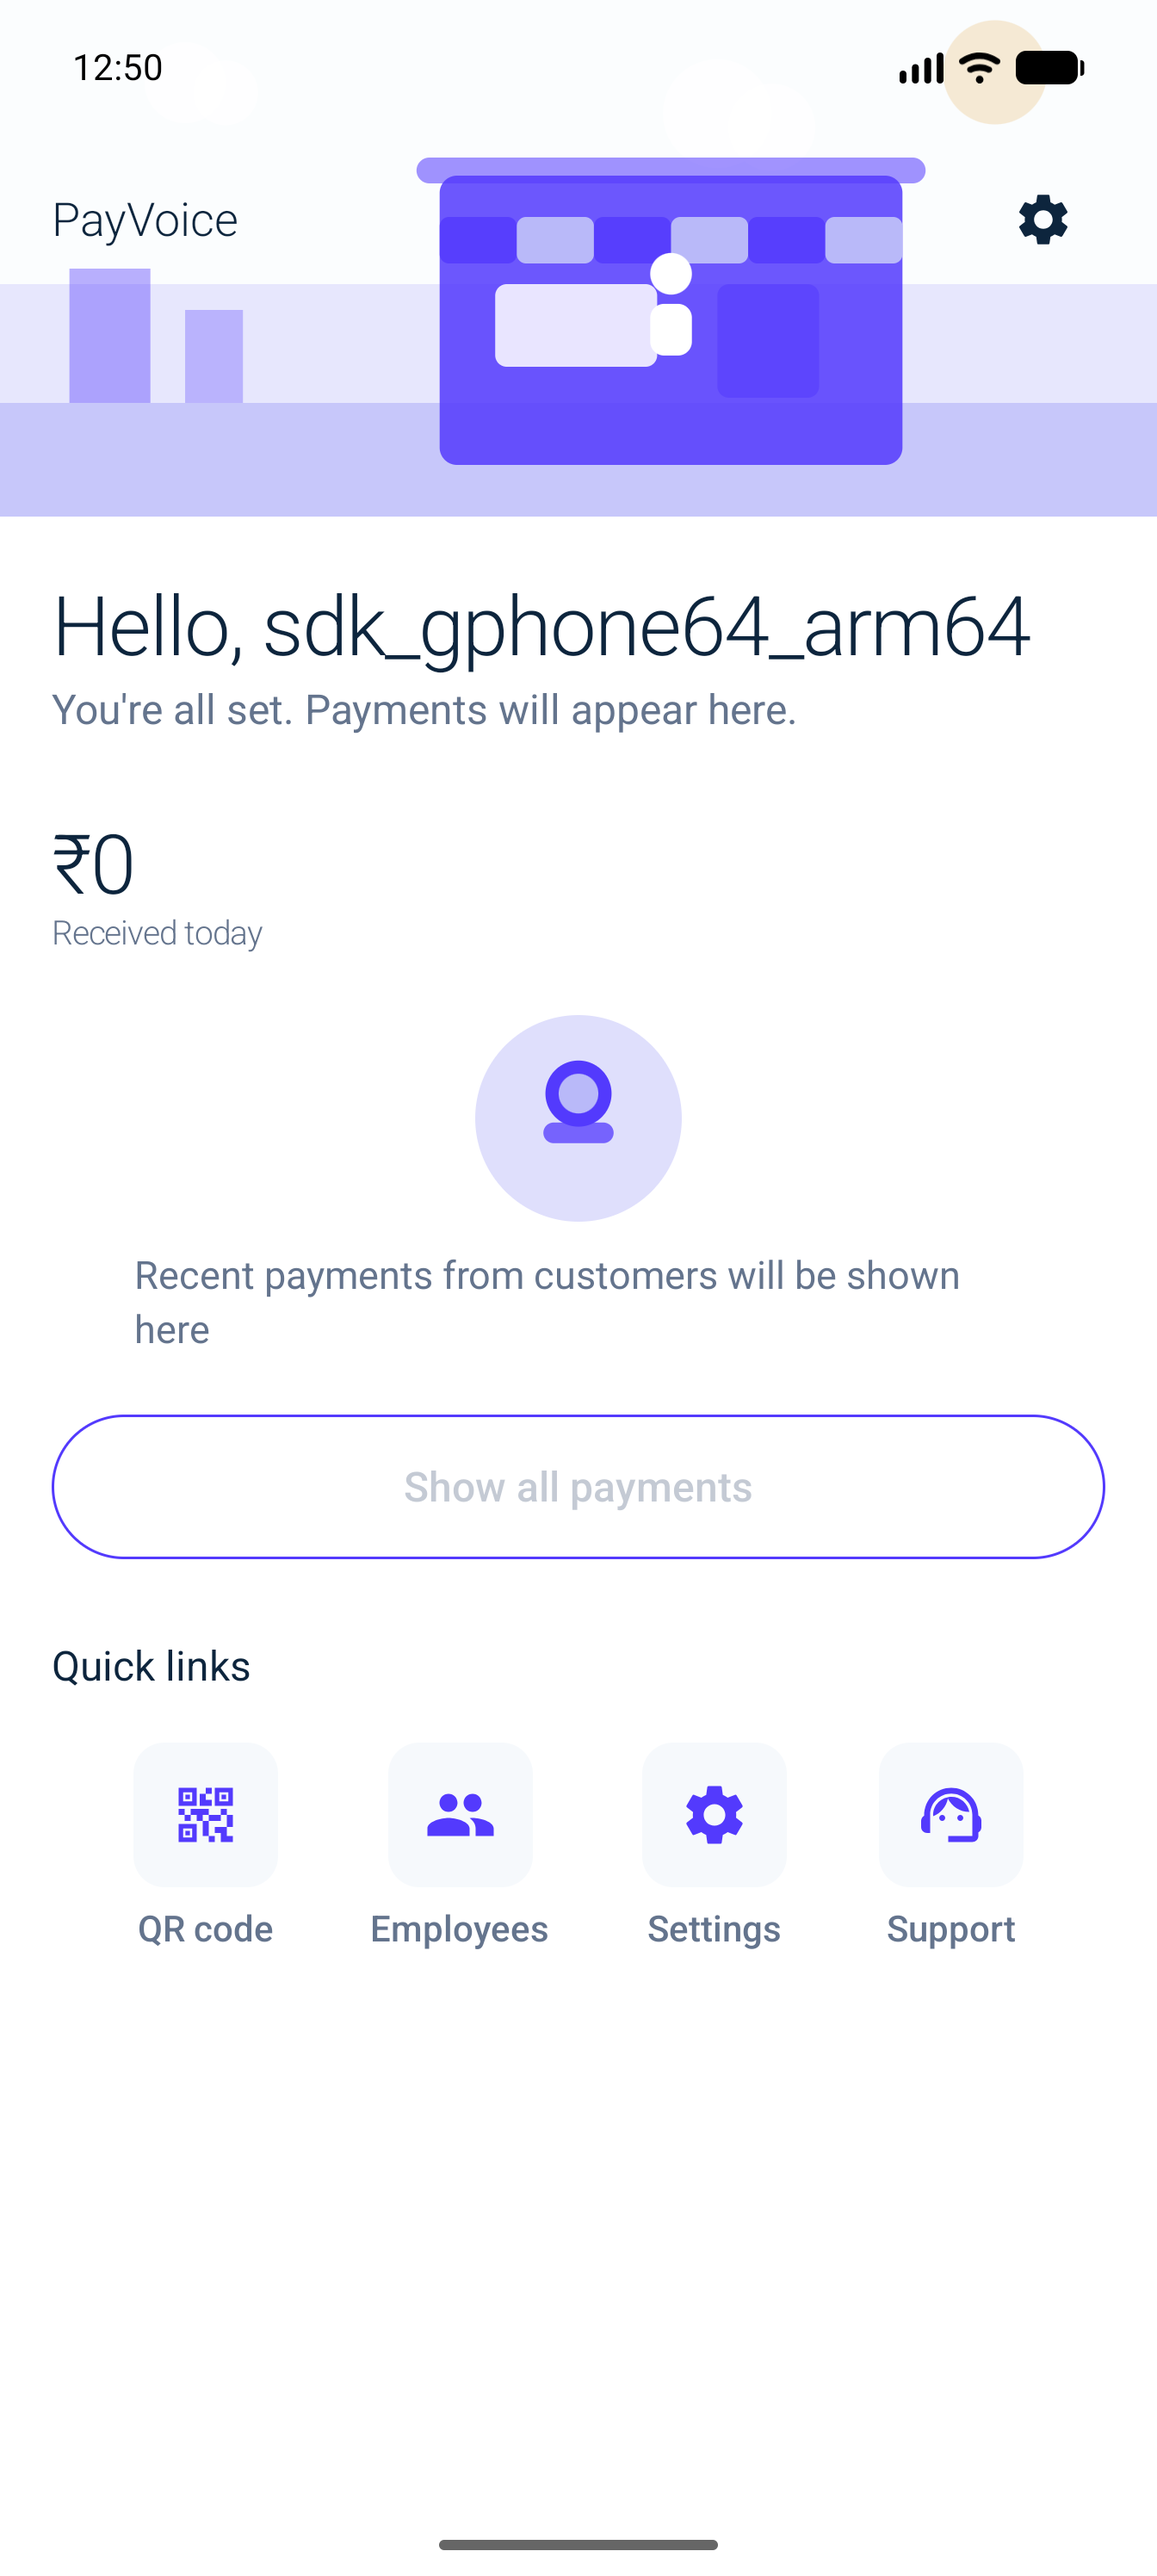
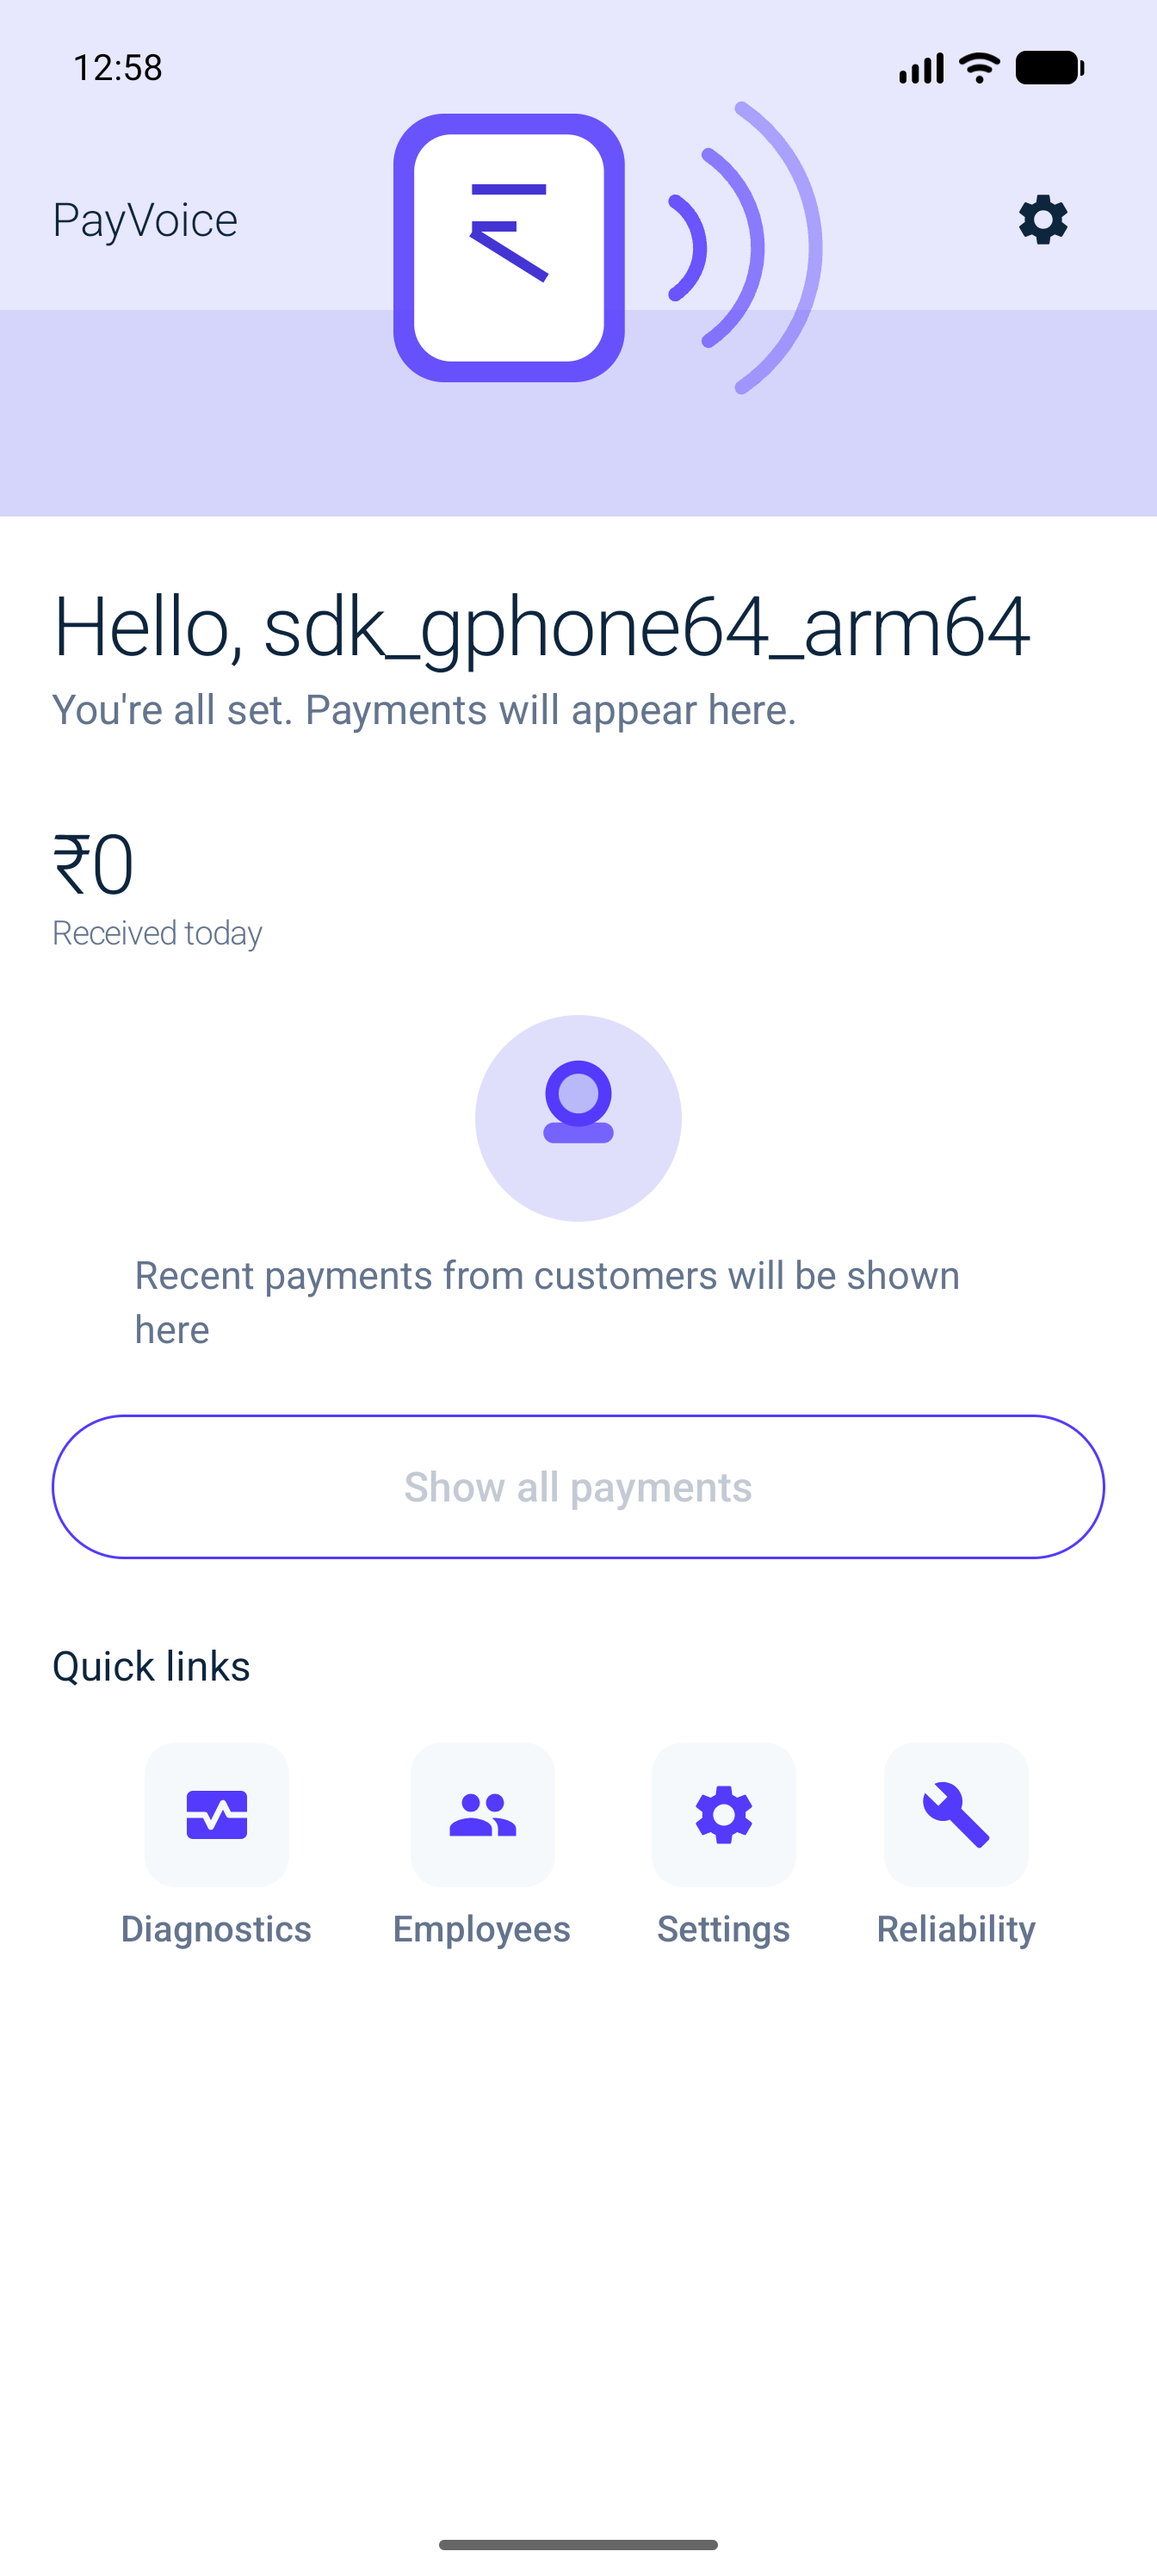
fix(ui/home): replace ambiguous hero shapes with consistent phone-with-sound illustration
The storefront scene's disconnected blocks/awning/figure didn't read as
any recognizable shape at 200dp. Redrawn as the recommended single
consistent scene: a soft primaryContainer wash, a rounded-square phone
silhouette with an inset screen, a rupee mark drawn inside it, and three
concentric sound-wave arcs to its right — the product story ("PayVoice
announces payments out loud") in one on-brand illustration. Same entry
point for the Owner/Employee HeroBanner, which clips this art.

Verified on emulator-5554: hero renders in light and dark
(home-owner.png, home-owner-dark.png). assembleDebug green.

diff --git a/app/src/main/java/com/vivekray898/payvoice/ui/components/Illustrations.kt b/app/src/main/java/com/vivekray898/payvoice/ui/components/Illustrations.kt
@@ -30,6 +30,8 @@ import androidx.compose.ui.geometry.CornerRadius
 import androidx.compose.ui.geometry.Offset
 import androidx.compose.ui.geometry.Size
 import androidx.compose.ui.graphics.Color
+import androidx.compose.ui.graphics.StrokeCap
+import androidx.compose.ui.graphics.drawscope.Stroke
 import androidx.compose.ui.graphics.vector.ImageVector
 import androidx.compose.ui.unit.Dp
 import androidx.compose.ui.unit.dp
@@ -43,113 +45,85 @@ import com.vivekray898.payvoice.ui.theme.Spacing
  * sizes are marked `// structural` per docs/DESIGN_SYSTEM.md.
  */
 
-/** Full-bleed storefront scene: sky, ground, shop with striped awning. */
+/**
+ * Full-bleed hero: a rounded-square phone silhouette with the rupee mark
+ * inside and concentric sound-wave arcs to its right — the product story
+ * (PayVoice announces payments out loud) in one consistent scene on a soft
+ * primaryContainer wash.
+ */
 @Composable
 fun StorefrontHero(modifier: Modifier = Modifier) {
     // Colors are captured in composition (DrawScope is not composable).
-    val sky = MaterialTheme.colorScheme.primaryContainer.copy(alpha = 0.35f)
-    val skyTop = MaterialTheme.colorScheme.surfaceVariant.copy(alpha = 0.4f)
-    val ground = MaterialTheme.colorScheme.primaryContainer.copy(alpha = 0.7f)
-    val shop = MaterialTheme.colorScheme.primary.copy(alpha = 0.85f)
-    val shopLight = MaterialTheme.colorScheme.primary.copy(alpha = 0.55f)
-    val awningB = MaterialTheme.colorScheme.primaryContainer
-    val accent = MaterialTheme.colorScheme.tertiaryContainer
+    val wash = MaterialTheme.colorScheme.primaryContainer.copy(alpha = 0.35f)
+    val washDeep = MaterialTheme.colorScheme.primaryContainer.copy(alpha = 0.6f)
+    val phoneBody = MaterialTheme.colorScheme.primary.copy(alpha = 0.85f)
+    val phoneScreen = MaterialTheme.colorScheme.surface
+    val waves = MaterialTheme.colorScheme.primary
+    val rupee = MaterialTheme.colorScheme.onPrimaryContainer
     Canvas(modifier = modifier.fillMaxSize()) {
         val w = size.width
         val h = size.height
 
-        // Sky (two-band wash, lighter at the top)
-        drawRect(color = skyTop, size = Size(w, h * 0.55f))
-        drawRect(color = sky, topLeft = Offset(0f, h * 0.55f), size = Size(w, h * 0.45f))
+        // Background wash (soft vertical two-step)
+        drawRect(color = wash, size = Size(w, h * 0.6f))
+        drawRect(color = washDeep, topLeft = Offset(0f, h * 0.6f), size = Size(w, h * 0.4f))
 
-        // Ground band
-        drawRect(color = ground, topLeft = Offset(0f, h * 0.78f), size = Size(w, h * 0.22f))
+        // Phone silhouette (centered, slightly left to leave room for waves)
+        val phoneW = w * 0.2f
+        val phoneH = h * 0.52f
+        val phoneLeft = w * 0.34f
+        val phoneTop = h * 0.22f
+        drawRoundRect(
+            color = phoneBody,
+            topLeft = Offset(phoneLeft, phoneTop),
+            size = Size(phoneW, phoneH),
+            cornerRadius = CornerRadius(phoneW * 0.22f),
+        )
+        // Screen inset
+        val screenPad = phoneW * 0.09f
+        drawRoundRect(
+            color = phoneScreen,
+            topLeft = Offset(phoneLeft + screenPad, phoneTop + screenPad),
+            size = Size(phoneW - screenPad * 2, phoneH - screenPad * 2),
+            cornerRadius = CornerRadius(phoneW * 0.16f),
+        )
 
-        // Clouds
-        listOf(0.16f, 0.62f).forEachIndexed { i, cx ->
-            val cy = h * (0.16f + i * 0.06f)
-            val r = w * (0.035f + i * 0.012f)
-            drawCircle(color = Color.White.copy(alpha = 0.75f), radius = r, center = Offset(w * cx, cy))
-            drawCircle(
-                color = Color.White.copy(alpha = 0.75f),
-                radius = r * 0.8f,
-                center = Offset(w * cx + r, cy + r * 0.25f),
+        // Rupee symbol inside the screen (two strokes + the crossbar)
+        val cx = phoneLeft + phoneW / 2
+        val cy = phoneTop + phoneH * 0.42f
+        val s = phoneW * 0.16f
+        drawLine(
+            color = rupee,
+            start = Offset(cx - s, cy - s),
+            end = Offset(cx + s, cy - s),
+            strokeWidth = s * 0.28f,
+        )
+        drawLine(
+            color = rupee,
+            start = Offset(cx - s, cy),
+            end = Offset(cx + s * 0.2f, cy),
+            strokeWidth = s * 0.28f,
+        )
+        drawLine(
+            color = rupee,
+            start = Offset(cx - s, cy + s * 0.15f),
+            end = Offset(cx + s, cy + s * 1.4f),
+            strokeWidth = s * 0.28f,
+        )
+
+        // Sound-wave arcs (three concentric, right of the phone)
+        val arcCenter = Offset(phoneLeft + phoneW + w * 0.015f, phoneTop + phoneH * 0.5f)
+        for (i in 1..3) {
+            drawArc(
+                color = waves.copy(alpha = 0.85f - (i - 1) * 0.22f),
+                startAngle = -55f,
+                sweepAngle = 110f,
+                useCenter = false,
+                topLeft = Offset(arcCenter.x - i * w * 0.05f, arcCenter.y - i * h * 0.11f),
+                size = Size(i * w * 0.1f, i * h * 0.22f),
+                style = Stroke(width = w * 0.012f, cap = StrokeCap.Round),
             )
         }
-
-        // Sun
-        drawCircle(color = accent, radius = w * 0.045f, center = Offset(w * 0.86f, h * 0.14f))
-
-        // Distant blocks (left skyline)
-        drawRect(
-            color = shopLight.copy(alpha = 0.4f),
-            topLeft = Offset(w * 0.06f, h * 0.52f),
-            size = Size(w * 0.07f, h * 0.26f),
-        )
-        drawRect(
-            color = shopLight.copy(alpha = 0.3f),
-            topLeft = Offset(w * 0.16f, h * 0.6f),
-            size = Size(w * 0.05f, h * 0.18f),
-        )
-
-        // Shop body
-        val shopLeft = w * 0.38f
-        val shopRight = w * 0.78f
-        val shopTop = h * 0.34f
-        val shopBottom = h * 0.9f
-        drawRoundRect(
-            color = shop,
-            topLeft = Offset(shopLeft, shopTop),
-            size = Size(shopRight - shopLeft, shopBottom - shopTop),
-            cornerRadius = CornerRadius(w * 0.015f),
-        )
-
-        // Roof slab
-        drawRoundRect(
-            color = shopLight,
-            topLeft = Offset(shopLeft - w * 0.02f, shopTop - h * 0.035f),
-            size = Size(shopRight - shopLeft + w * 0.04f, h * 0.05f),
-            cornerRadius = CornerRadius(w * 0.012f),
-        )
-
-        // Striped awning
-        val awningTop = shopTop + h * 0.08f
-        val awningH = h * 0.09f
-        val stripeCount = 6
-        val stripeW = (shopRight - shopLeft) / stripeCount
-        for (i in 0 until stripeCount) {
-            drawRoundRect(
-                color = if (i % 2 == 0) shop else awningB,
-                topLeft = Offset(shopLeft + i * stripeW, awningTop),
-                size = Size(stripeW, awningH),
-                cornerRadius = CornerRadius(w * 0.008f),
-            )
-        }
-
-        // Window + door
-        drawRoundRect(
-            color = Color.White.copy(alpha = 0.85f),
-            topLeft = Offset(shopLeft + (shopRight - shopLeft) * 0.12f, awningTop + awningH + h * 0.04f),
-            size = Size((shopRight - shopLeft) * 0.35f, h * 0.16f),
-            cornerRadius = CornerRadius(w * 0.01f),
-        )
-        drawRoundRect(
-            color = shopLight,
-            topLeft = Offset(shopLeft + (shopRight - shopLeft) * 0.6f, awningTop + awningH + h * 0.04f),
-            size = Size((shopRight - shopLeft) * 0.22f, h * 0.22f),
-            cornerRadius = CornerRadius(w * 0.01f),
-        )
-
-        // Counter figure (simple person: head + body)
-        val px = w * 0.58f
-        val py = awningTop + awningH + h * 0.02f
-        drawCircle(color = Color.White, radius = w * 0.018f, center = Offset(px, py))
-        drawRoundRect(
-            color = Color.White,
-            topLeft = Offset(px - w * 0.018f, py + w * 0.026f),
-            size = Size(w * 0.036f, h * 0.1f),
-            cornerRadius = CornerRadius(w * 0.012f),
-        )
     }
 }
 
